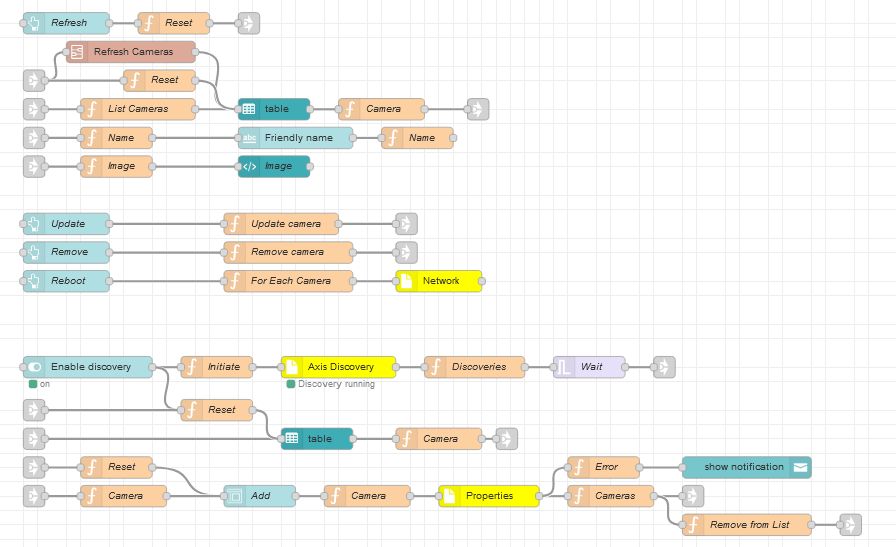
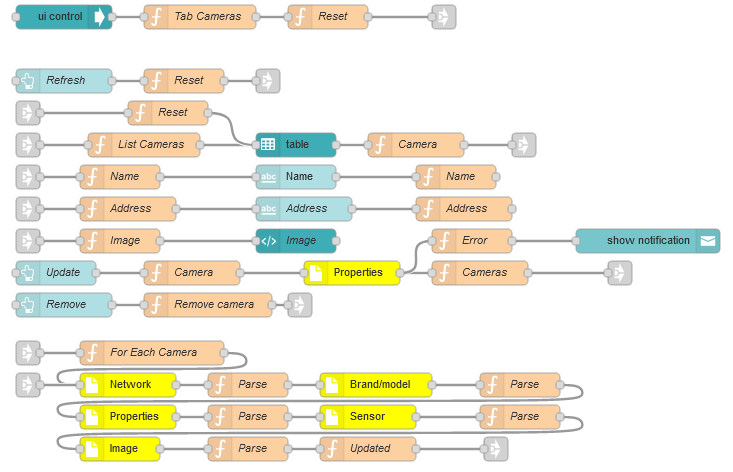
Add files via upload

diff --git a/camera_inventory/README.md b/camera_inventory/README.md
@@ -1,5 +1,21 @@
 # Camera Inventory
-This flow is suitable when you need to have a camera inventory in your Node-Red.  The inventory is stored in global context.  If you enable persistant storage the inventory will reamin intact event after restarting Node-Red.  To enable persistant storage you need to edit the file ./node-red/settings.js.  Remove the comments (//) on each line of the following section in settings.js.  You need to restart Node-Red after changes.
+
+When working with many cameras you need an inventory.  This flow allows you to use a dashboard to populate an inventory that is stored in the global context store.
+If you add a lot of cameras it is recommeded to also import the flow [device_discovery](https://github.com/aintegration/flows/tree/master/device_discovery)
+
+## Dashboard
+![Dashboard](pictures/dashboard.PNG)
+
+## Prerequisites
+
+Before importing the flow you need to import the following nodes (Menu | Manage pallette | Install)
+- node-red-dashboard
+- node-red-contrib-axis-camera
+
+You need to set the device credentials in the Axis Device Node before heading to the dashbaord.
+
+You should enable persistant storage in Node-Red in order for your inventory to survice a reboot.
+Open the file .node-red/settings.js in an editor and remove the comments (//) on each line of the following section in the file.
 ```
     contextStorage: {
         default: {
@@ -7,19 +23,25 @@ This flow is suitable when you need to have a camera inventory in your Node-Red.
         },
     },
 ```
+You need to restart Node-Red after changes.
 
-# Camera Discovery
-The Axis Discovery node will find cameras on the local network segment using UPnP and/or Bonjour.  Note that discovery will not work if you are running Node-Red in a Docker Container.
+## Flow
+Copy and import the [flow](https://github.com/aintegration/flows/blob/master/camera_inventory/flow.json) to your Node-Red
+
+Once imported you will see.
+![Flow](pictures/flow.PNG)
 
 # Usage
 Use the dashboard to add cameras to inventory.
+
+The inventory is stored in global context and accessed with `cameras = global.get("cameras")`.
 
 When you want to use a camera in e.g. a function node, add the followng
 ```
 cameras = global.get("cameras");
 if(!cameras)
   return;  //No inventory
-camera = cameras["THE CAMERA SERIAL IS"]
+camera = cameras["THE CAMERA SERIAL NUMBER"]
 ```
 If you need an array of cameras
 ```
@@ -39,18 +61,3 @@ for(var serial in cameras)
  node.send({payload:cameras[serial]})
 //DO NOT return msg;
 ```
-
-## Prerequisites
-Before importing the flow you need to import the following nodes (Menue | Manage pallette | Install)
-- node-red-dashboard
-- node-red-contrib-axis-camera
-- node-red-contrib-axis-discovery
-
-Before deploying the flow you need to set the camera credentials in the Axis Camera node.  Double click the yellow node and set your camera credentials.
-
-## Dashboard
-![Dashboard](pictures/dashboard.PNG)
-
-## Flow
-Copy and import the [flow](https://github.com/aintegration/flows/blob/master/camera_inventory/flow.json) to your Node-Red
-![Flow](pictures/flow.PNG)
